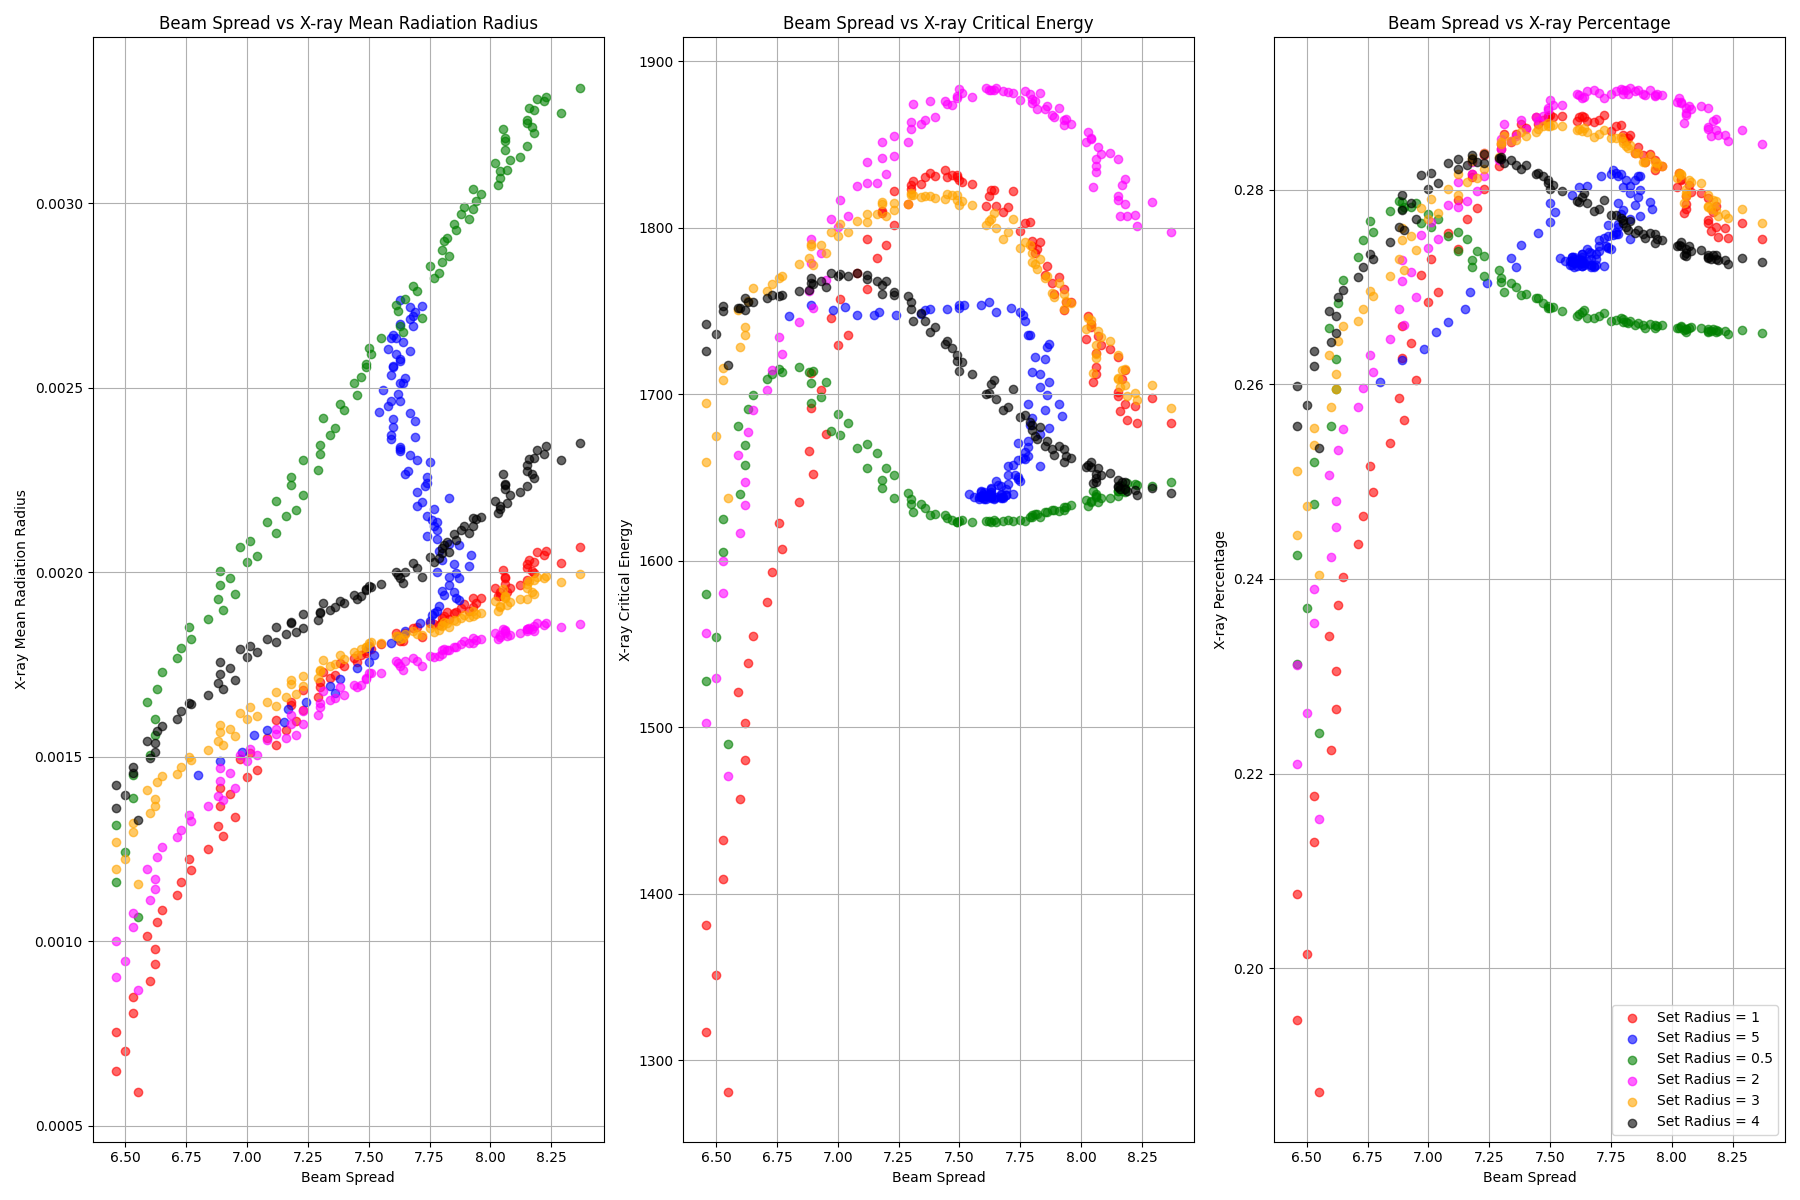
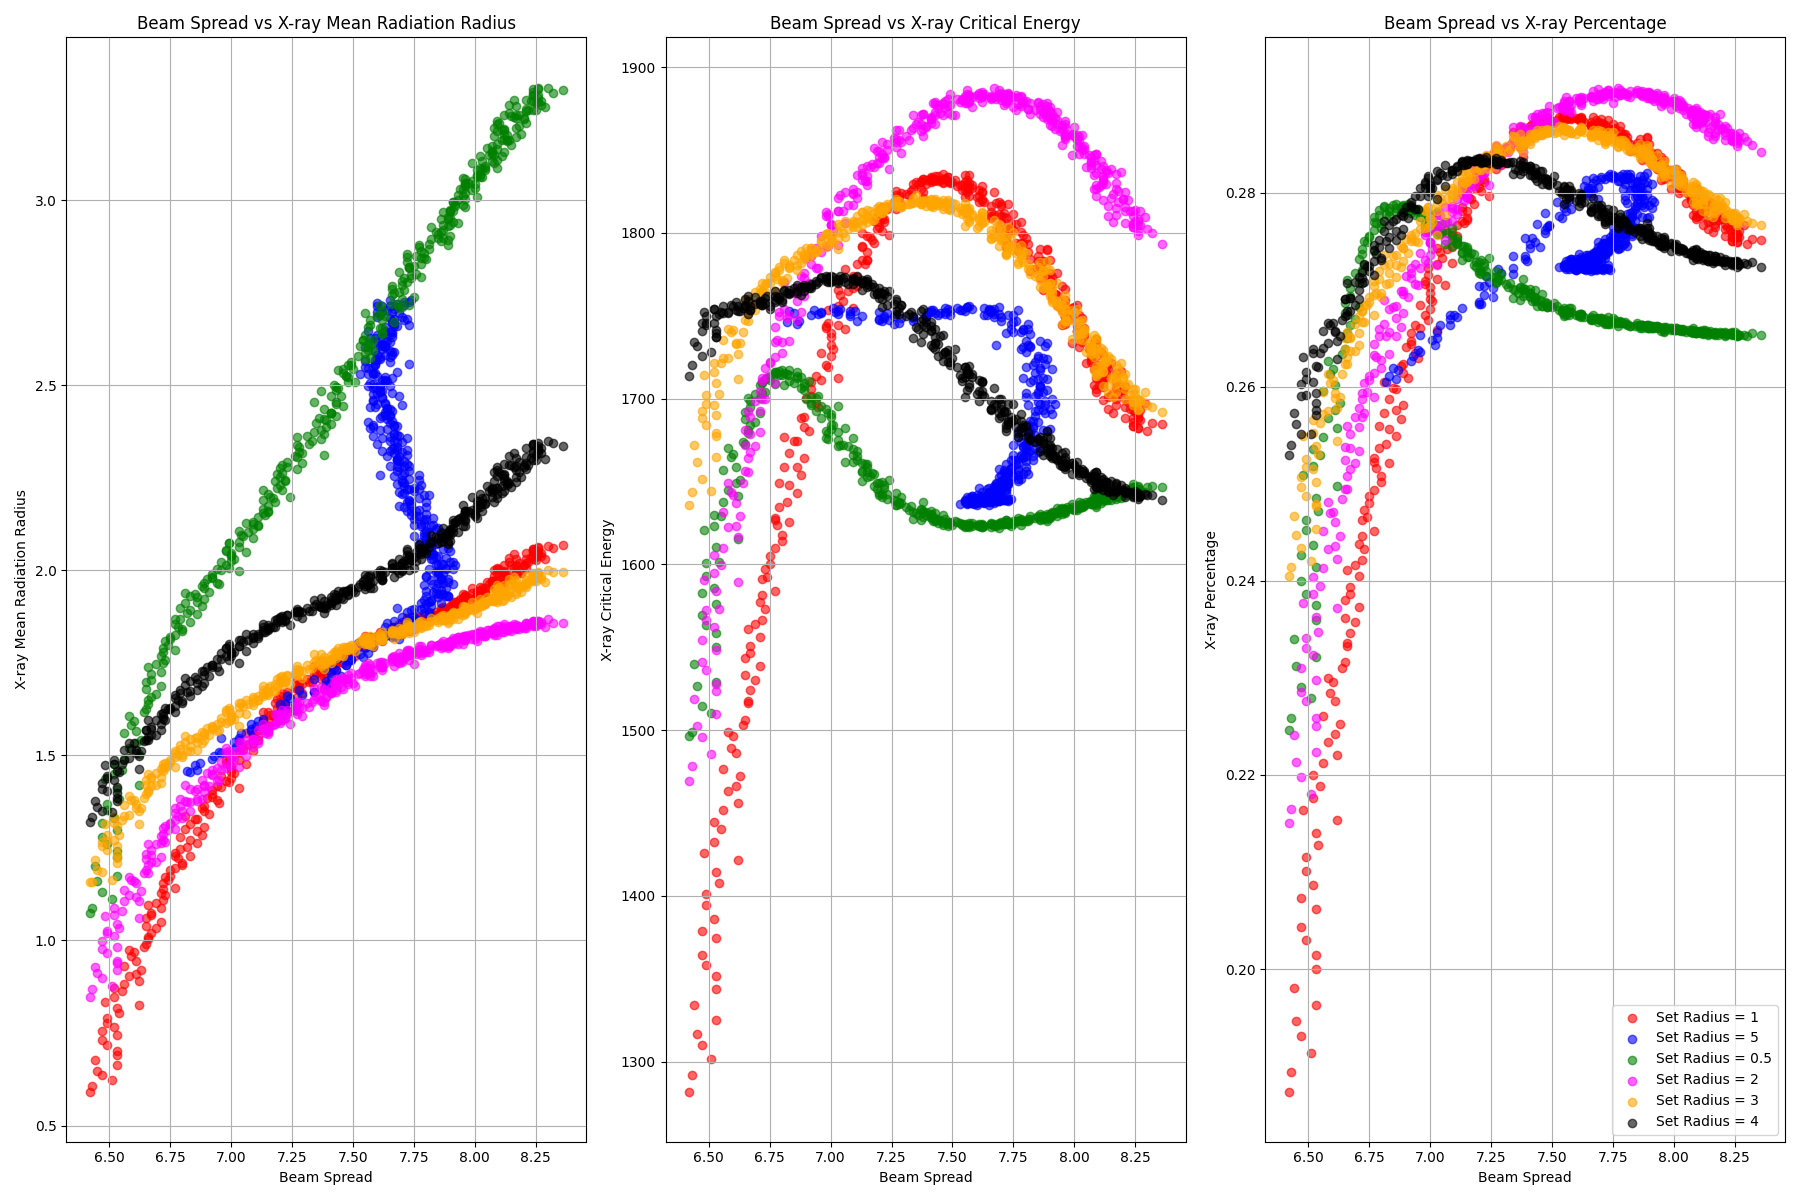
stat analysis with new data

diff --git a/Processed_Data/physics_results.py b/Processed_Data/physics_results.py
@@ -14,7 +14,7 @@ data_set=r"data_sets\big_scan_correct.csv"
 df = pd.read_csv(data_set)
 #df=df[df['Beam Spread']>0.01]
 
-filtered_df1=df[df['Set Radius']==1]#& df['Beam Spread']>0.01]
+filtered_df1=df[df['Set Radius']==1]
 filtered_df2=df[df['Set Radius']==2]
 filtered_df3=df[df['Set Radius']==3]
 filtered_df4=df[df['Set Radius']==4]

diff --git a/Processed_Data/statistical_analysis.py b/Processed_Data/statistical_analysis.py
@@ -39,7 +39,7 @@ def distance_correlation_calculator(df, targets):
     return reshaped_df, correlation_df_sorted
 
 
-data_set=r"data_sets\big_scan_correct.csv"
+data_set=r"data_sets\big_scan_2400.csv"
 df = pd.read_csv(data_set)
 #df = df.drop(columns=['Initial emittance'])
 
